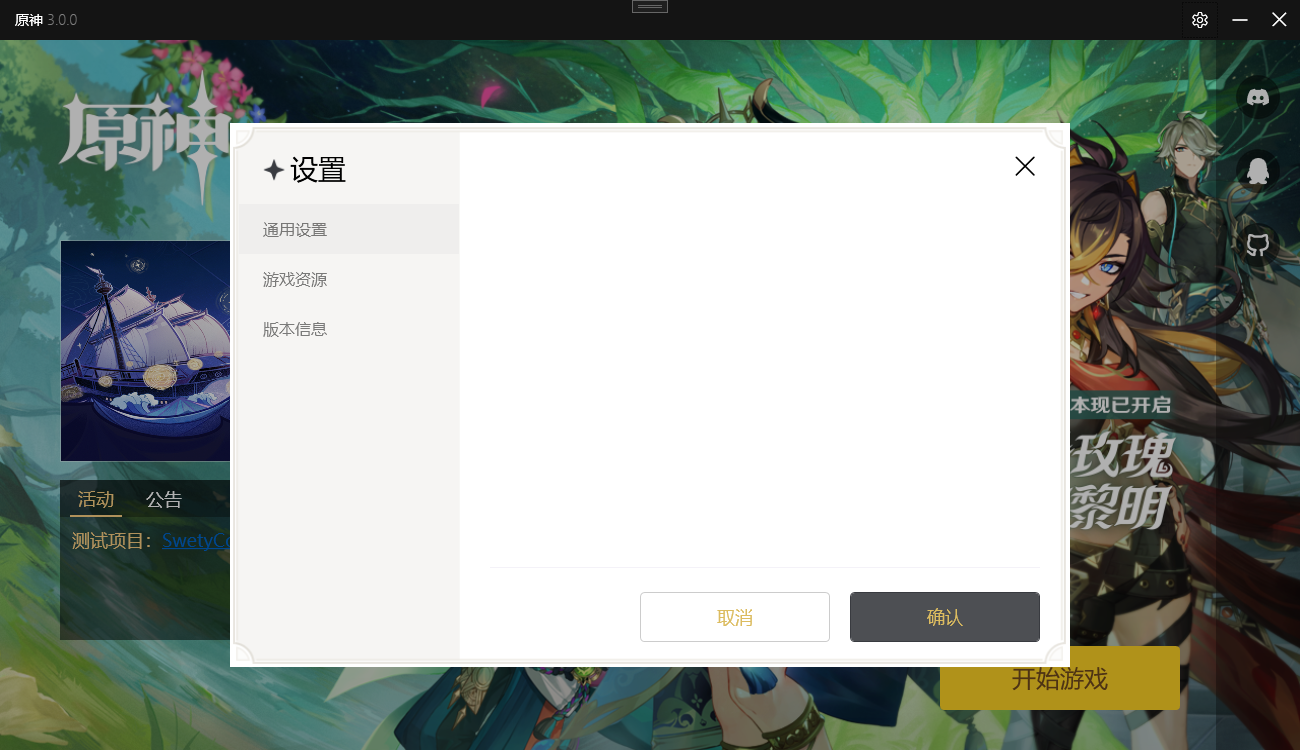
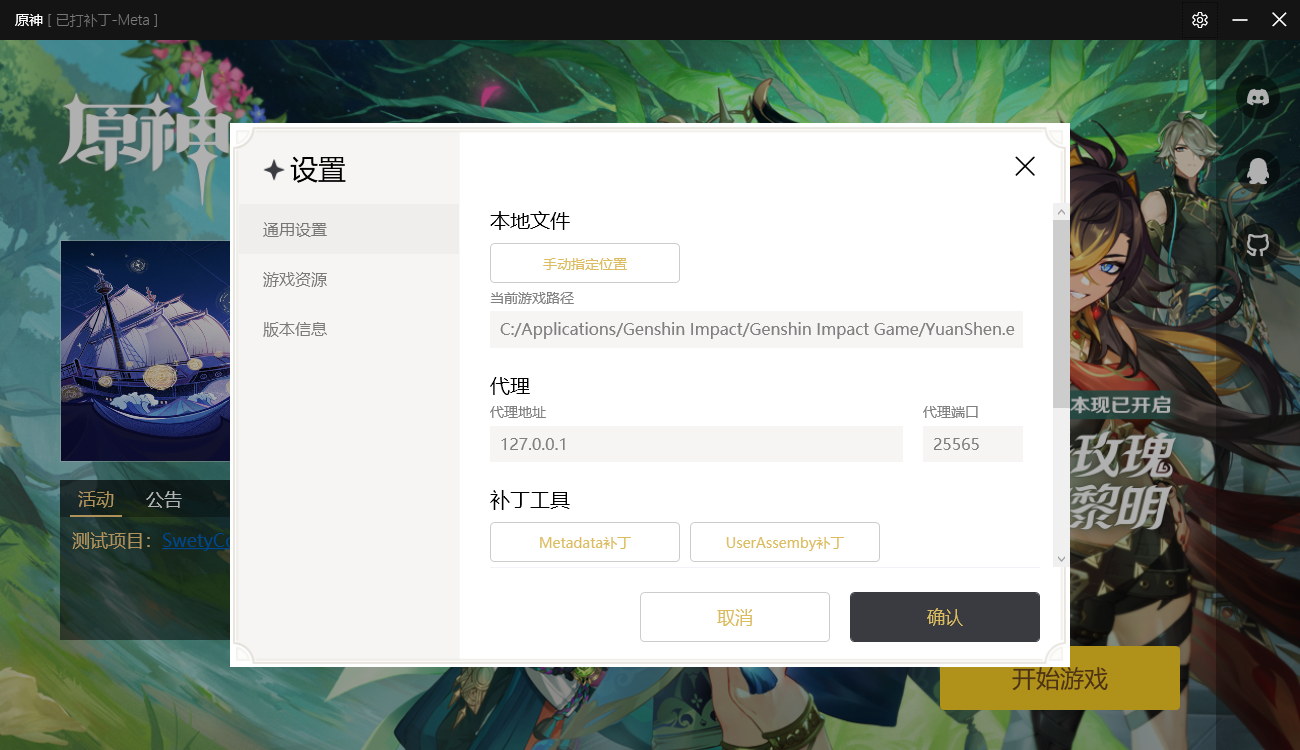
启动取消后崩溃修复 添加全局异常捕获 更新自述文件

diff --git a/PU_Test/App.xaml.cs b/PU_Test/App.xaml.cs
@@ -3,6 +3,7 @@ using System.Collections.Generic;
 using System.Configuration;
 using System.Data;
 using System.Linq;
+using System.Net;
 using System.Threading.Tasks;
 using System.Windows;
 
@@ -13,5 +14,38 @@ namespace PU_Test
     /// </summary>
     public partial class App : Application
     {
+        protected override void OnStartup(StartupEventArgs e)
+        {
+            ServicePointManager.ServerCertificateValidationCallback += (s, cert, chain, sslPolicyErrors) => true;
+
+
+            AppDomain currentDomain = AppDomain.CurrentDomain;
+            // 当前作用域出现未捕获异常时，使用MyHandler函数响应事件
+            currentDomain.UnhandledException += new UnhandledExceptionEventHandler(MyHandler);
+
+            base.OnStartup(e);
+        }
+        static void MyHandler(object sender, UnhandledExceptionEventArgs args)
+        {
+            Exception e = (Exception)args.ExceptionObject;
+            Console.WriteLine("UnHandled Exception Caught : " + e.Message);
+            Console.WriteLine("Runtime terminating: {0}", args.IsTerminating);
+
+            MessageBox.Show(e.Message + "\n" + e.StackTrace, "程序崩溃了！");
+            System.IO.File.WriteAllText("err.log", e.Message + e.StackTrace);
+            Environment.Exit(0);
+
+        }
+        protected override void OnExit(ExitEventArgs e)
+        {
+
+            if (GlobalValues.mainWindow.vm.proxyController != null)
+            {
+                GlobalValues.mainWindow.vm.proxyController.Stop();
+
+            }
+
+            base.OnExit(e);
+        }
     }
 }

diff --git a/PU_Test/Common/Game/GameHelper.cs b/PU_Test/Common/Game/GameHelper.cs
@@ -6,6 +6,7 @@ using System.IO;
 using System.Linq;
 using System.Text;
 using System.Threading.Tasks;
+using System.Windows;
 
 namespace PU_Test.Common.Game
 {
@@ -22,7 +23,15 @@ namespace PU_Test.Common.Game
                     FileName = filePath,
                     UseShellExecute = true,
                 };
-                Process.Start(startInfo);
+                try
+                {
+                    Process.Start(startInfo);
+
+                }
+                catch (Exception ex)
+                {
+                    MessageBox.Show(ex.Message);
+                }
                 //Start("cmd.exe",$"/c \"{filePath}\"");
             }
             else

diff --git a/PU_Test/ViewModel/MainWindow.cs b/PU_Test/ViewModel/MainWindow.cs
@@ -18,7 +18,7 @@ namespace PU_Test.ViewModel
     partial class MainWindow : ObservableObject
     {
 
-        private ProxyHelper.ProxyController proxyController;
+        public ProxyHelper.ProxyController proxyController;
 
         public MainWindow()
         {

diff --git a/README.md b/README.md
@@ -1,6 +1,35 @@
 # GenshinLauncherUI
 > 原神启动器UI复刻
 
-# 效果
+## ✨功能 (持续完善ing)
+
+✅ 高仿官方启动器UI  
+✅ 自带代理  
+✅ 自定义部分页面资源  
+✅ 直接修补metadata文件  
+⛔ 直接修补userassemby文件  
+⛔ 服务器状态  
+⛔ 自定义公告（暂未找到支持公告api的服务端） 
+
+## 🖼效果
 ![](Preview/main.png)
 ![](Preview/setting.png)
+
+## 🎁使用
+1. 前往 Release 寻找操作系统对应的压缩包
+2. 解压到任意目录
+3. 双击exe
+
+## 🐛常见问题
++ 打不开应用程序:
+	```
+	You must install .NET Desktop Runtime to run this application.
+	Architecture: x64
+	App host version: 6.0.7
+	Would you like to download it now?
+	Learn about runtime installation:
+	https://aka.ms/dotnet/app-launch-failed
+	```
+	前往 [https://dotnet.microsoft.com/zh-cn/download/dotnet/6.0](https://dotnet.microsoft.com/zh-cn/download/dotnet/thank-you/runtime-desktop-6.0.8-windows-x64-installer)下载运行环境
++ 其他  
+	前往 [issues](https://github.com/gc-toolkit/GenshinLauncher/issues)具体描述你遇到的问题
